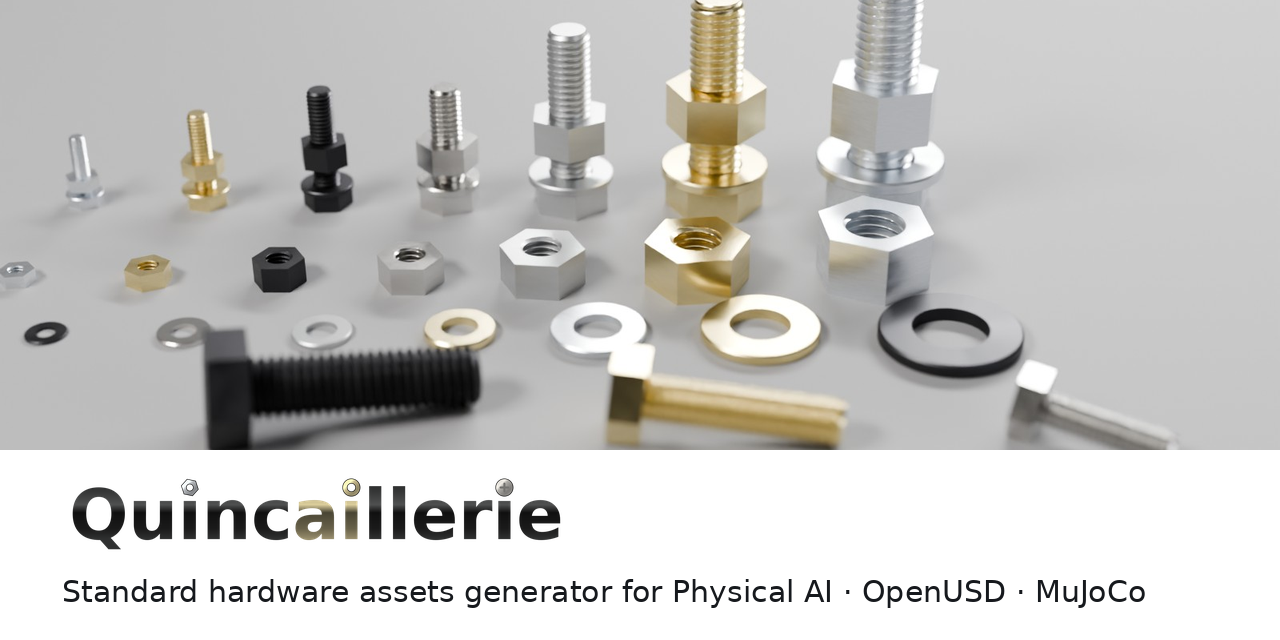
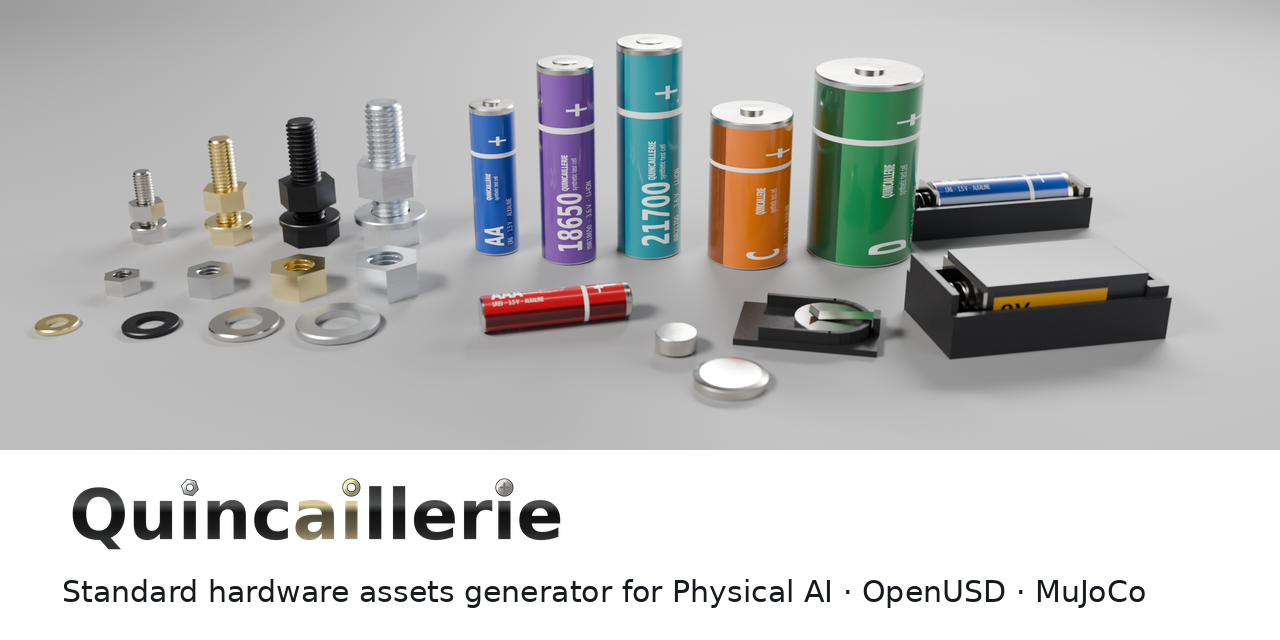
docs: social preview with fasteners, cells and holders together
Claude-Session: https://claude.ai/code/session_01XgMqQzEe77iiq6RdfcUZej

diff --git a/scripts/readme_images.py b/scripts/readme_images.py
@@ -137,6 +137,56 @@ def cells_scene(assets, path):
     return save(st)
 
 
+def showcase_scene(assets, path):
+    """One of everything, in a wide row for the social preview: screws with washers and nuts, loose
+    nuts and washers, standing cells, cells seated in their holders, coin cells."""
+    st = new_scene(path)
+    for i, (s, fin) in enumerate(
+        (("M6", "stainless_a2"), ("M8", "brass"), ("M10", "black_oxide"), ("M12", "zinc_clear"))
+    ):
+        t = METRIC[s]
+        x = -0.152 + 0.027 * i
+        k, P, h = t["k"] * MM, t["P"] * MM, t["washer"][2] * MM
+        screw = next(p for p in os.listdir(assets) if p.startswith(f"ISO4017_{s}x"))
+        add_ref(st, f"screw_{s}", assets / screw, (x, 0.02, k), quat_axis_angle((0, 0, 1), 0.4 * i), fin)
+        add_ref(st, f"washer_{s}", assets / f"ISO7089_{s}.usda", (x, 0.02, k), (1, 0, 0, 0), fin)
+        phi = 0.6 + 0.5 * i
+        n = int(np.ceil(h / P)) + 2 + i % 2
+        z = k + n * P + P * phi / (2 * np.pi)
+        add_ref(st, f"nut_{s}", assets / f"ISO4032_{s}.usdc", (x, 0.02, z), quat_axis_angle((0, 0, 1), phi), fin)
+        lfin = FINISHES[(i + 3) % len(FINISHES)]
+        add_ref(
+            st,
+            f"lnut_{s}",
+            assets / f"ISO4032_{s}.usdc",
+            (x + 0.006, -0.022, 0),
+            quat_axis_angle((0, 0, 1), 0.3 + i),
+            lfin,
+        )
+        add_ref(
+            st,
+            f"lwasher_{s}",
+            assets / f"ISO7089_{s}.usda",
+            (x - 0.004, -0.048, 0),
+            (1, 0, 0, 0),
+            FINISHES[(i + 1) % 6],
+        )
+    up = quat_axis_angle((0, 1, 0), -np.pi / 2)  # cell axis x -> z: standing on its - end
+    for i, (n, x) in enumerate((("AA", -0.035), ("18650", -0.011), ("21700", 0.015), ("C", 0.047), ("D", 0.084))):
+        c = CELLS[n]
+        q = qmul(quat_axis_angle((0, 0, 1), -1.45 + 0.12 * i), up)
+        add_ref(st, f"cell_{n}", assets / f"Cell_{n}.usda", (x, 0.012 - 0.006 * (i % 2), c["L"] / 2 * MM), q)
+    add_ref(st, "cell_AAA", assets / "Cell_AAA.usda", (-0.012, -0.045, 0.00525), quat_axis_angle((0, 0, 1), 0.25))
+    holders = {"AA": (0.135, 0.035, 0.2), "CR2032": (0.066, -0.052, -0.2), "9V": (0.128, -0.045, 0.2)}
+    for n, (hx, hy, yaw) in holders.items():
+        add_ref(st, f"holder_{n}", assets / f"Holder_{n}.usda", (hx, hy, 0), quat_axis_angle((0, 0, 1), yaw))
+        place_seated(st, f"holder_{n}", f"seated_{n}", assets / f"Cell_{n}.usda", n, (hx, hy, 0), yaw)
+    add_ref(st, "coin_LR44", assets / "Cell_LR44.usda", (0.022, -0.062, 0.0027), quat_axis_angle((0, 0, 1), 0.4))
+    flip = qmul(quat_axis_angle((0, 0, 1), 1.1), quat_axis_angle((1, 0, 0), np.pi))
+    add_ref(st, "coin_CR2032", assets / "Cell_CR2032.usda", (0.036, -0.082, 0.0016), flip)
+    return save(st)
+
+
 def blender(scene, out, size, cam, lens, fstop, samples):
     subprocess.run(
         [sys.executable, str(HERE / "render_blender.py"), str(scene), str(out), *map(str, size), str(samples)]
@@ -188,7 +238,7 @@ def main(argv=None):
         tmp = Path(tmp)
         generate(catalog_parts(), str(tmp), "catalog", scene=False)
         assets = tmp / "catalog" / "assets"
-        if "fasteners" in only or "social" in only:
+        if "fasteners" in only:
             sc = fasteners_scene(assets, tmp / "catalog" / "fasteners.usda")
             blender(
                 sc,
@@ -204,14 +254,19 @@ def main(argv=None):
             blender(
                 sc, out / "cells.jpg.png", (1600, 900), (0.02, -0.36, 0.24, 0.015, -0.025, 0.012), 45, 0, args.samples
             )
+        if "social" in only:
+            sc = showcase_scene(assets, tmp / "catalog" / "showcase.usda")
+            blender(
+                sc, out / "showcase.png", (2560, 900), (0.012, -0.40, 0.17, 0.012, -0.008, 0.016), 38, 8, args.samples
+            )
+            social(out / "showcase.png", out / "logo.png", out / "social_preview.png")
+            (out / "showcase.png").unlink()
         from PIL import Image
 
         for name in ("fasteners", "cells"):
             png = out / f"{name}.jpg.png"
             if png.exists():
                 Image.open(png).convert("RGB").save(out / f"{name}.jpg", quality=90)
-                if "social" in only and name == "fasteners":
-                    social(png, out / "logo.png", out / "social_preview.png")
                 png.unlink()
 
 
